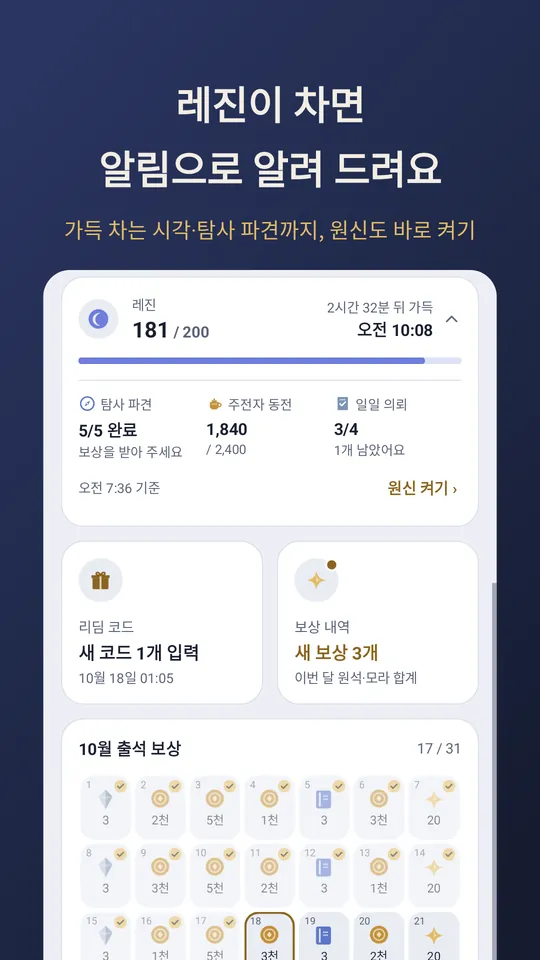
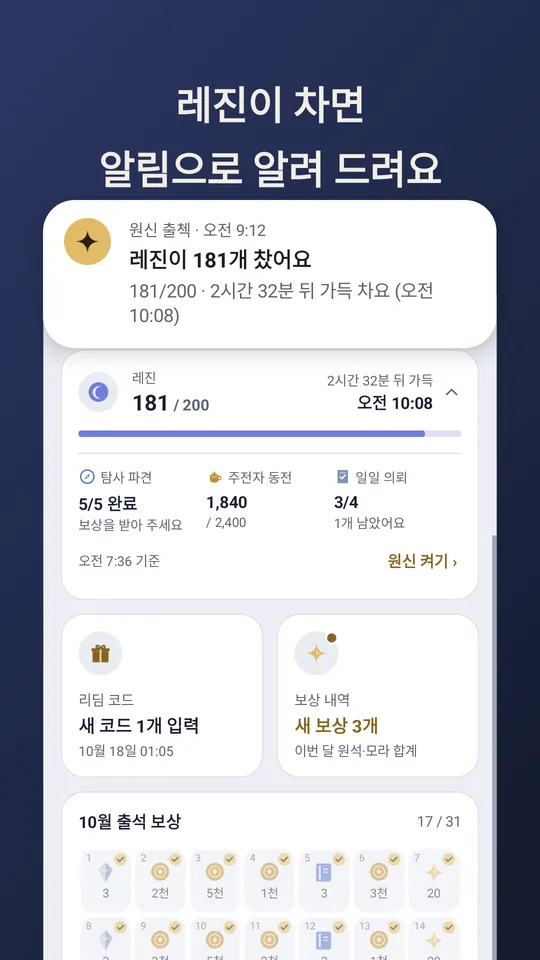
Store screenshots: show the actual redeem and resin notifications
Claude-Session: https://claude.ai/code/session_01AVkzu9p2ytMeGHejvvs68H

diff --git a/app/src/test/java/kr/sumi/checkin/StoreAssetsTest.kt b/app/src/test/java/kr/sumi/checkin/StoreAssetsTest.kt
@@ -126,6 +126,7 @@ class StoreAssetsTest {
         state: MainUiState, night: Boolean, title: String, sub: String,
         scrollTo: Int? = null, aboveDp: Int = 44, tablet: Boolean = false, history: HistoryUiState? = null,
         custom: ((android.content.Context) -> View)? = null, settings: Boolean = false,
+        headsUp: Triple<String, String, String>? = null,
     ) {
         // 휴대폰: 앱 화면은 1080×2160(420dpi)으로 그리고, 스크린샷 틀은 1080×1920이다.
         val w = if (tablet) 1440 else 1080
@@ -192,7 +193,7 @@ class StoreAssetsTest {
                 setTypeface(typeface, Typeface.BOLD)
                 setTextColor(context.getColor(R.color.hero_ink))
             })
-            addView(TextView(context).apply {
+            if (headsUp == null) addView(TextView(context).apply {
                 text = sub
                 textSize = 16f * textScale
                 gravity = Gravity.CENTER
@@ -204,6 +205,14 @@ class StoreAssetsTest {
             setBackgroundResource(R.drawable.ic_launcher_background)
             addView(screen, FrameLayout.LayoutParams(w, appH))
             addView(caption, FrameLayout.LayoutParams(MATCH_PARENT, WRAP_CONTENT))
+            // 앱을 열지 않아도 오는 알림: 화면 위쪽 가장자리에 걸쳐 띄운다(부제 대신).
+            headsUp?.let { (time, title, body) ->
+                val cardW = (w * scale).toInt()
+                addView(headsUpCard(context, time, title, body, textScale), FrameLayout.LayoutParams(cardW, WRAP_CONTENT).apply {
+                    leftMargin = (w - cardW) / 2
+                    topMargin = (400 * k).toInt()
+                })
+            }
         })
     }
 
@@ -253,6 +262,33 @@ class StoreAssetsTest {
             addView(notification("오전 1:05", "리딤 코드 2개를 받았어요", "VesnaOnPatrol, EPIC2026 · 게임 우편함에서 받으세요."))
             addView(notification("오전 1:03", "원신 출첵 완료", "출첵 완료! (17일째)\n보상: 원석 x20"),
                 LinearLayout.LayoutParams(MATCH_PARENT, WRAP_CONTENT).apply { topMargin = dp(8) })
+        }
+    }
+
+    /** 화면 위에 내려온 알림 한 장(안드로이드 밝은 알림 모양). 문구는 Notifier가 실제로 보내는 문구다. */
+    private fun headsUpCard(context: android.content.Context, time: String, title: String, body: String, scale: Float): View {
+        val d = context.resources.displayMetrics.density * scale
+        fun dp(v: Int) = (v * d).toInt()
+        val ink = 0xFF1B1D22.toInt(); val muted = 0xFF5F636E.toInt()
+        return LinearLayout(context).apply {
+            orientation = LinearLayout.HORIZONTAL
+            setPadding(dp(16), dp(14), dp(16), dp(16))
+            background = android.graphics.drawable.GradientDrawable().apply { cornerRadius = dp(24).toFloat(); setColor(0xFFFFFFFF.toInt()) }
+            elevation = dp(10).toFloat()
+            addView(android.widget.ImageView(context).apply {
+                setImageResource(R.drawable.ic_notify)
+                setColorFilter(0xFF2A1F08.toInt())
+                setPadding(dp(7), dp(7), dp(7), dp(7))
+                background = android.graphics.drawable.GradientDrawable().apply {
+                    shape = android.graphics.drawable.GradientDrawable.OVAL; setColor(context.getColor(R.color.gold))
+                }
+            }, LinearLayout.LayoutParams(dp(36), dp(36)).apply { marginEnd = dp(14) })
+            addView(LinearLayout(context).apply {
+                orientation = LinearLayout.VERTICAL
+                addView(TextView(context).apply { text = "원신 출첵 · $time"; textSize = 12f * scale; setTextColor(muted) })
+                addView(TextView(context).apply { text = title; textSize = 16f * scale; setTypeface(typeface, Typeface.BOLD); setTextColor(ink); setPadding(0, dp(2), 0, 0) })
+                addView(TextView(context).apply { text = body; textSize = 14f * scale; setTextColor(muted); setPadding(0, dp(2), 0, 0); setLineSpacing(0f, 1.1f) })
+            }, LinearLayout.LayoutParams(0, WRAP_CONTENT, 1f))
         }
     }
 
@@ -337,6 +373,7 @@ class StoreAssetsTest {
     @Test fun screenshot1Redeem() = screenshot(
         redeemed, night = false, custom = { redeemScene(it, 1080, 2160) },
         title = "방송 리딤코드,\n알아서 입력돼요", sub = "새 코드가 나오면 고른 캐릭터로 자동 입력",
+        headsUp = Triple("오전 1:05", "리딤 코드 2개를 받았어요", "VesnaOnPatrol, EPIC2026 · 게임 우편함에서 받으세요."),
     )
 
     @Test fun screenshot2CheckIn() = screenshot(
@@ -360,8 +397,9 @@ class StoreAssetsTest {
     )
 
     @Test fun screenshot3Resin() = screenshot(
-        resinFull, night = false, scrollTo = R.id.notesCard, aboveDp = 6,
+        resinFull, night = false, scrollTo = R.id.notesCard, aboveDp = 72,
         title = "레진이 차면\n알림으로 알려 드려요", sub = "가득 차는 시각·탐사 파견까지, 원신도 바로 켜기",
+        headsUp = Triple("오전 9:12", "레진이 181개 찼어요", "181/200 · 2시간 32분 뒤 가득 차요 (오전 10:08)"),
     )
 
     @Test fun screenshot7Trust() = screenshot(
@@ -372,6 +410,7 @@ class StoreAssetsTest {
     @Test fun tablet1Redeem() = screenshot(
         redeemed, night = false, custom = { redeemScene(it, 1440, 2190) }, tablet = true,
         title = "방송 리딤코드,\n알아서 입력돼요", sub = "새 코드가 나오면 고른 캐릭터로 자동 입력",
+        headsUp = Triple("오전 1:05", "리딤 코드 2개를 받았어요", "VesnaOnPatrol, EPIC2026 · 게임 우편함에서 받으세요."),
     )
 
     @Test fun tablet2CheckIn() = screenshot(
@@ -395,8 +434,9 @@ class StoreAssetsTest {
     )
 
     @Test fun tablet3Resin() = screenshot(
-        resinFull, night = false, tablet = true,
+        resinFull, night = false, tablet = true, scrollTo = R.id.heroCard, aboveDp = 104,
         title = "레진이 차면\n알림으로 알려 드려요", sub = "가득 차는 시각·탐사 파견까지, 원신도 바로 켜기",
+        headsUp = Triple("오전 9:12", "레진이 181개 찼어요", "181/200 · 2시간 32분 뒤 가득 차요 (오전 10:08)"),
     )
 
     @Test fun tablet7Trust() = screenshot(
